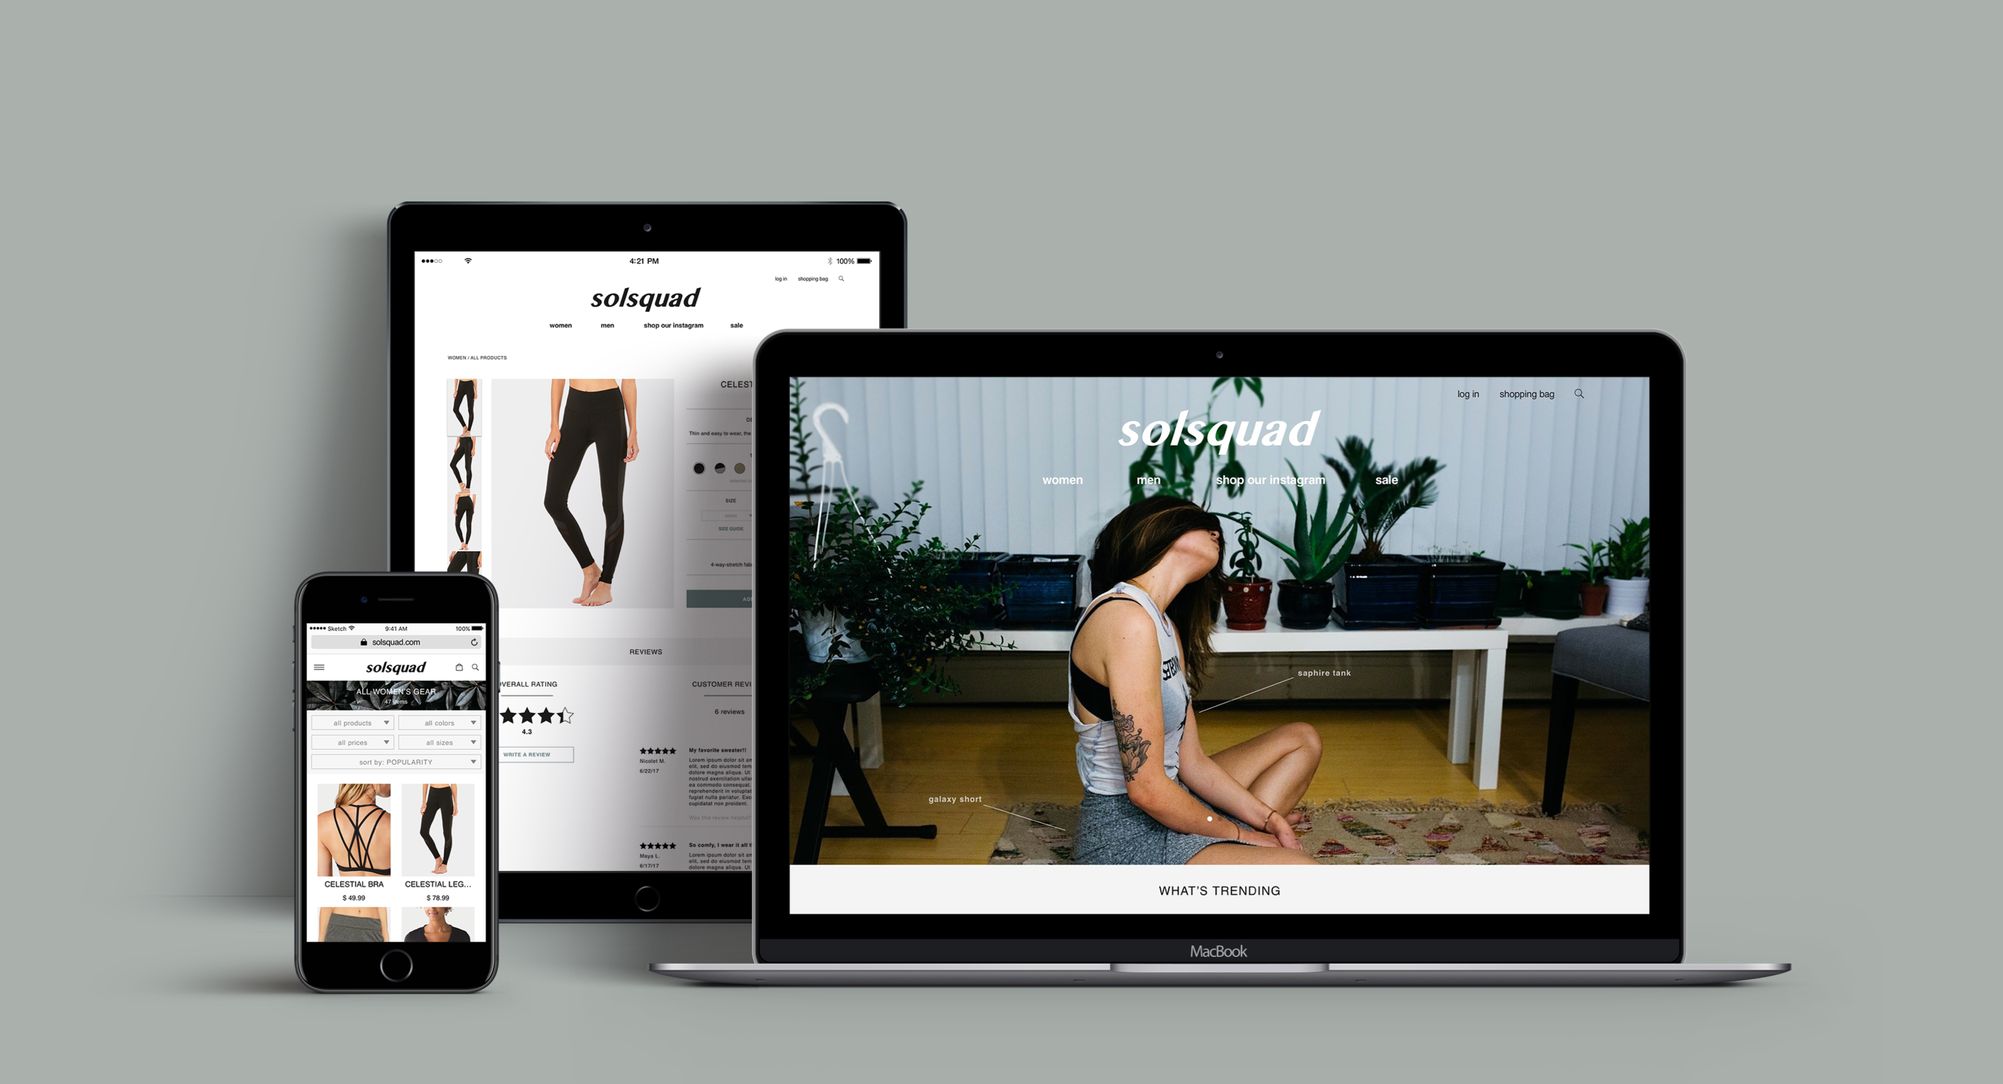
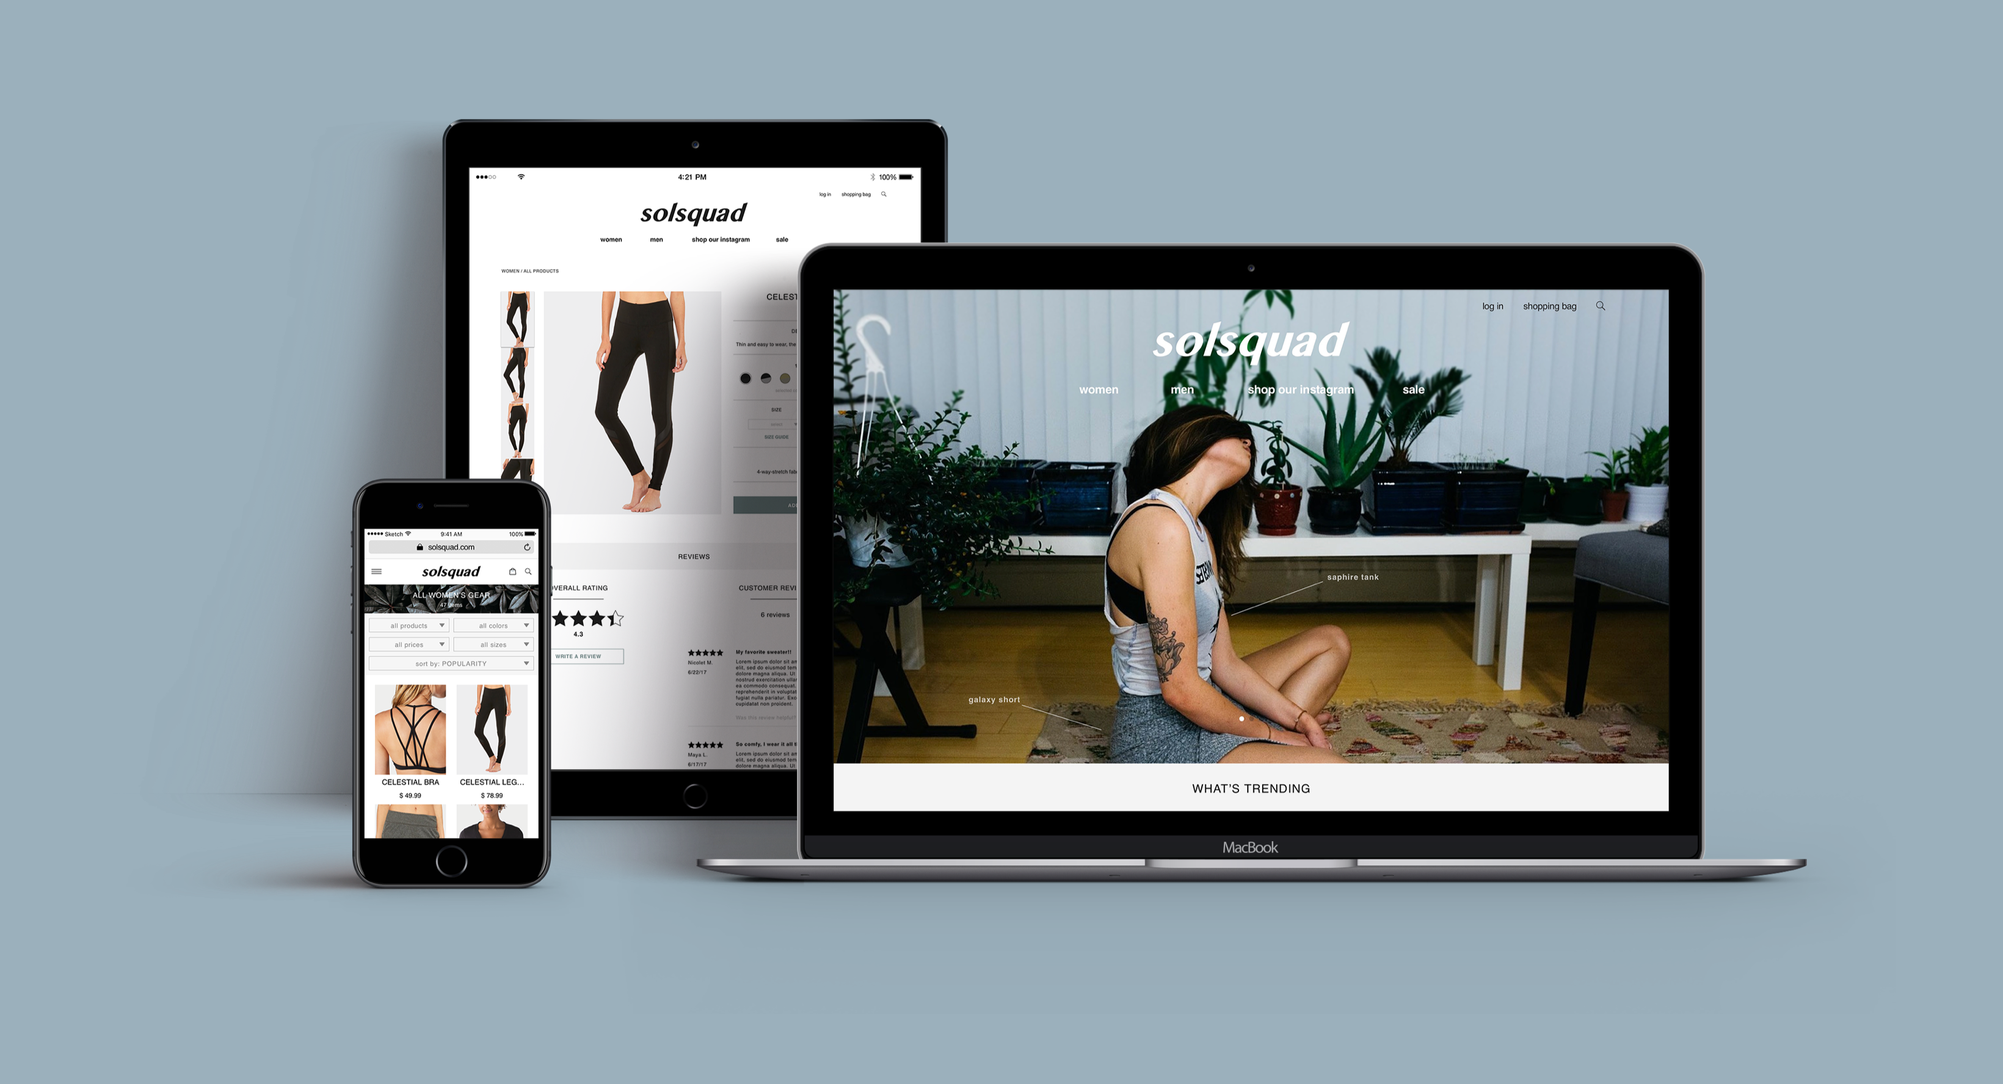
Almost done with The Hungry Pear.

diff --git a/solsquad.html b/solsquad.html
@@ -10,6 +10,7 @@
         <title>Annie Andrews | UX/UI Designer</title>
         <meta name="viewport" content="width=device-width, initial-scale=1">
         <link href="https://fonts.googleapis.com/css?family=Asap:400,400i,500,500i,600,600i,700,700i|Assistant:200,300,400,600,700,800|Gudea:400,400i,700|Hind+Guntur:300,400,500,600,700|Hind+Siliguri:300,400,500,600,700|Jaldi:400,700|Mada:200,300,400,500,600,700,900|Mallanna|Martel+Sans:300,400,600,700,800,900|Maven+Pro:400,500,700,900|Roboto:100,100i,300,300i,400,400i,500,500i,700,700i,900,900i|Source+Sans+Pro:200,200i,300,300i,400,400i,600,600i,700,700i,900,900i" rel="stylesheet">
+        <link href="https://fonts.googleapis.com/css?family=Candal" rel="stylesheet">
         <link rel="stylesheet" type="text/css" href="http://fonts.googleapis.com/css?family=Open+Sans:400,800,600,700,300">
         <link rel="stylesheet" type="text/css" href="http://code.ionicframework.com/ionicons/2.0.1/css/ionicons.min.css">
         <link rel="stylesheet" type="text/css" href="css/normalize.css">
@@ -36,19 +37,15 @@
         </div>
       </nav>
 
-
       <!-- hero content -->
       <section class="hero-content">
       </section>
 
-
-
-
       <!-- Section intro-->
       <section class="content-area">
         <section class="body-name container">
-          <h4>Solsquad</h4>
-          <a href="http://www.invisionapp.com/" class="link" target="_blank">View prototype</a>
+          <h4><a href='#spot'>Solsquad</a></h4>
+          <a href="http://www.invisionapp.com/" class="link" target="_blank" name="spot" id="spot">View prototype</a>
         </section>
         <section class="body-intro container">
           <p>For <strong>Solsquad</strong>, an entirely online business, it's important that the user has a seemless experience from potential consumer to paying customer, as well as feeling that the brand is being represented. Solsquad is an upscale athletic and athleisure wear company, and together we've positioned them towards the active, stylish young adult.</p>
@@ -69,7 +66,7 @@
 
           <section class="the-solution">
             <div class="container">
-              <input id="toggle2" type="checkbox" checked><label for="toggle2">The Solution</label>
+              <input id="toggle2" type="checkbox"><label for="toggle2">The Solution</label>
               <div id="expand">
                 <section>
                   <p>Providing a user-tested product that differentiates itself by being highly intuitive and simple while putting the high-end grunge style on display.</p>
@@ -80,7 +77,7 @@
 
           <section class="the-process">
             <div class="container">
-              <input id="toggle4" type="checkbox" checked><label for="toggle4">The Process</label>
+              <input id="toggle4" type="checkbox"><label for="toggle4">The Process</label>
               <div id="expand">
                 <section>
                     <h3>Get to know the user</h3>
@@ -115,11 +112,15 @@
                       <h3>Competitive Analysis</h3>
                       <p>This is text about competitors.</p>
                       <img src="images/solsquad/competition.png"  alt="Competitors">
+                      <img src="images/solsquad/alo.png"  alt="Competitive Analysis">
+                      <img src="images/solsquad/lululemon.png"  alt="Competitive Analysis">
                   </section>
                   <section class="user-flow">
                       <h3>User Flow</h3>
                       <p>This is text about user flow.</p>
                       <img src="images/solsquad/userflows.png"  alt="User Flow Charts">
+                      <img src="images/solsquad/userflows2.png"  alt="User Flow Charts">
+                      <img src="images/solsquad/userflows3.png"  alt="User Flow Charts">
                   </section>
                   <section class="branding">
                       <h3>Branding</h3>
@@ -128,8 +129,29 @@
                       <img src="images/solsquad/ideations.png"  alt="Logo Ideations">
                   </section>
                   <section class="design">
-                      <h3>Design</h3>
-                      <p>This is text about user design.</p>
+                    <h3>Design</h3>
+                    <h5>Low fidelity wireframes</h5>
+                    <p>Throughout the wireframing process, I was talking with users about what they would expect the app to do and how they'd prefer to interact within it. One of the main goals and identified priorities, was to have a search function similar to those that users are already interacting with.</p>
+                    <img src="images/solsquad/lofi.png" alt="Low Fidelity Wireframes">
+                    <h5>Refining</h5>
+                    <p>As conversations and testing continued, there were a number of pieces to the app that were rehauled, one of these was the <strong>INTRODUCTION</strong>. The starting idea featured a modal on top of the map. We wanted a way to give users a little more information about how to search on the app but this was later scrapped as it isn’t a standard iOS practice and not a familiar experience to users.
+                      <br/>The second idea was to have a 3 screen introduction through use of pagination. The first screen featured an app introduction, the second gave directions, and the third started the user off on their search. This idea was also scrapped because as the entirety of the the app underwent building, the design resembled a very straight forward search function and through talking with potential users of the app, everyone was able to figure out how to use the app without getting directions.
+                      <br/>We decided on a simple welcome screen, meant to appear for users either when they open the app as a new user or if they are a returning user who is not signed in. This way there is a colorful and inviting introduction to engage our users and excite them about their restaurant search, as  opposed just opening onto a simple map. The final design allowed us to feature colorful food photos and build brand recognition through the use of the logo and word mark.
+                    </p>
+                    <img src="images/solsquad/refine1.png" alt="Refining the Homescreen">
+                    <p>Another piece of the app to undergo major changes was the <strong>SEARCH</strong> feature. In initial planning, this screen was going to allow a user to choose between a frequently searched diet or search using text search for a diet not listed. At least for the starting scope of The Hungry Pear, this was scaled back due to the large increase in resources it would take to allow for any diet to be searched on and yield quality search results. After reviewing surveys and conversations with potential users, the most common diets were selected. One of the diets, as previously touched on, was not expected. It was a shock to learn just how many surveyed individuals identified as lactose intolerance and it was, in fact, added into our list of options.
+                      <br/>Then as we were creating the search page, we initially intended to use pills for the user to select. This idea was scrapped, however, to accomodate more imagery contributing to brand recognition and a positive, food focused experience with The Hungry Pear.
+                    </p>
+                    <img src="images/solsquad/refine2.png" alt="Refining the Search Feature">
+                    <p>Along the way the <strong>NAVIGATION</strong> bar also saw a lot of adjustment. Initially, to build brand recognition, the idea of having the word mark always on the screen was favored. But as we brought brand recognition into the app in other ways, this was ultimately deemed confusing and unneccessary.<br/>
+                        The icons also underwent changes. The profile picture was removed in place of a more standard account settings icon as we walked away from having formal profiles. Seeing as the app currently does not have a functionality for communication between users the profile was changed to a more simple account settings.<br/>
+                        Another large change was the removal of the “home” button. Talking with users, it was confusing which screen they should go to search on the map because the home screen was the map, and the search screen was separate. This was resolved by bringing in a full screen modal to search right on the map screen, also being consistent with how users would expect to interact with a map on iOS. <br/>
+                    </p>
+                    <img src="images/solsquad/refine3.png" alt="Refining the Navigation Bar">
+                    <h5>Final Design &amp; Prototyping</h5>
+                    <p>After creating high fidelity wireframes and making final revisions, the final design was completed. Take a look below.<br/>
+                      Take The Hungry Pear iOS app for a spin <a href="http://www.invisionapp.com/">by clicking here</a>.</p>
+                    <a href="http://www.invisionapp.com/"><img src="images/solsquad/final.png"  alt="Final Design"></a>
                   </section>
 
                 </section>
@@ -140,7 +162,7 @@
 
         <section class="conclusion">
           <div class="container">
-            <input id="toggle" type="checkbox" checked><label for="toggle">Conclusion</label>
+            <input id="toggle" type="checkbox"><label for="toggle">Conclusion</label>
             <div id="expand">
               <section>
                 <p>Solsquad is high-end athletic wear with a grundge flair. Styles are edgy, modern, and highlight strong lines to bring out a deep, eclectic beauty rarely seen. This website does the same.</p>
@@ -190,6 +212,6 @@
 
 
       <script src="https://code.jquery.com/jquery-2.1.3.min.js"></script>
-      <script src="JS/landing.js"></script>
+      <script src="JS/project.js"></script>
     </body>
 </html>

diff --git a/thehungrypear.html b/thehungrypear.html
@@ -45,8 +45,8 @@
       <!-- Section intro-->
       <section class="content-area">
         <section class="body-name container">
-          <h4>The Hungry Pear</h4>
-          <a href="http://www.invisionapp.com/" class="link" target="_blank">View prototype</a>
+          <h4><a href='#spot'>The Hungry Pear</a></h4>
+          <a href="http://www.invisionapp.com/" class="link" target="_blank" name="spot" id="spot">View prototype</a>
         </section>
         <section class="body-intro container">
           <p>For the growing number of people that find themselves on a restrictive diet, it’s hard to find restaurants meant for you. Most of the apps that are available today only offer a vegetarian filter to search by which is a very broad scope and often misses the mark for many searchers. It leaves the possibility for a user to wind up at a restaurant where the only option for them is a simple salad. The Hungry Pear is an iOS app designed to help those individuals identify the exciting restaurant options for them in their area.</p>
@@ -120,6 +120,8 @@
                       <p>After learning more about users and the competition, I used user stories to help me prioritize product features to be included in The Hungry Pear’s MVP. Stories were then converted into user flows to describe and visualize the interaction of a user with the product.</p>
                       <img src="images/thehungrypear/userstories.png"  alt="User Stories">
                       <img src="images/thehungrypear/userflows.png"  alt="User Flow Charts">
+                      <img src="images/thehungrypear/userflows2.png"  alt="User Flow Charts">
+                      <img src="images/thehungrypear/userflows3.png"  alt="User Flow Charts">
                   </section>
                   <section class="branding">
                       <h3>Branding</h3>
@@ -134,16 +136,24 @@
                       <p>Throughout the wireframing process, I was talking with users about what they would expect the app to do and how they'd prefer to interact within it. One of the main goals and identified priorities, was to have a search function similar to those that users are already interacting with.</p>
                       <img src="images/thehungrypear/lofi.png" alt="Low Fidelity Wireframes">
                       <h5>Refining</h5>
-                      <p>As conversations and testing continued, there were a number of pieces to the app that were rehauled, one of these was the <strong>HOMESCREEN</strong>. As we...</p>
+                      <p>As conversations and testing continued, there were a number of pieces to the app that were rehauled, one of these was the <strong>INTRODUCTION</strong>. The starting idea featured a modal on top of the map. We wanted a way to give users a little more information about how to search on the app but this was later scrapped as it isn’t a standard iOS practice and not a familiar experience to users.
+                        <br/>The second idea was to have a 3 screen introduction through use of pagination. The first screen featured an app introduction, the second gave directions, and the third started the user off on their search. This idea was also scrapped because as the entirety of the the app underwent building, the design resembled a very straight forward search function and through talking with potential users of the app, everyone was able to figure out how to use the app without getting directions.
+                        <br/>We decided on a simple welcome screen, meant to appear for users either when they open the app as a new user or if they are a returning user who is not signed in. This way there is a colorful and inviting introduction to engage our users and excite them about their restaurant search, as  opposed just opening onto a simple map. The final design allowed us to feature colorful food photos and build brand recognition through the use of the logo and word mark.
+                      </p>
                       <img src="images/thehungrypear/refine1.png" alt="Refining the Homescreen">
-                      <p>Another big piece of the puzzle to change was the <strong>SEARCH</strong> feature. In initial planning, this screen was going to allow a user to choose between a frequently searched diet or search for a different diet not listed by typing in the text search. To scale the project, at least for the starting scope of The Hungry Pear, this was removed due to the large increase in resources and partners it would take to allow for all major and minor diets to be searched on and yield search results. After reviewing surveys and conversations with potential users, the most common diets were selected.<br/>Next, as we were creating the search page, the thought was initially to use pills for the user to select. This idea was scrapped, however, to accomodate sexier imagery. Food pictures were deemed of grate importance to the branding of The Hungry Pear, so we swapped these in to our fullscreen modal.</p>
+                      <p>Another piece of the app to undergo major changes was the <strong>SEARCH</strong> feature. In initial planning, this screen was going to allow a user to choose between a frequently searched diet or search using text search for a diet not listed. At least for the starting scope of The Hungry Pear, this was scaled back due to the large increase in resources it would take to allow for any diet to be searched on and yield quality search results. After reviewing surveys and conversations with potential users, the most common diets were selected. One of the diets, as previously touched on, was not expected. It was a shock to learn just how many surveyed individuals identified as lactose intolerance and it was, in fact, added into our list of options.
+                        <br/>Then as we were creating the search page, we initially intended to use pills for the user to select. This idea was scrapped, however, to accomodate more imagery contributing to brand recognition and a positive, food focused experience with The Hungry Pear.
+                      </p>
                       <img src="images/thehungrypear/refine2.png" alt="Refining the Search Feature">
-                      <p>Along the way, the <strong>NAVIGATION BAR</strong> saw some major changes....</p>
+                      <p>Along the way the <strong>NAVIGATION</strong> bar also saw a lot of adjustment. Initially, to build brand recognition, the idea of having the word mark always on the screen was favored. But as we brought brand recognition into the app in other ways, this was ultimately deemed confusing and unneccessary.<br/>
+                          The icons also underwent changes. The profile picture was removed in place of a more standard account settings icon as we walked away from having formal profiles. Seeing as the app currently does not have a functionality for communication between users the profile was changed to a more simple account settings.<br/>
+                          Another large change was the removal of the “home” button. Talking with users, it was confusing which screen they should go to search on the map because the home screen was the map, and the search screen was separate. This was resolved by bringing in a full screen modal to search right on the map screen, also being consistent with how users would expect to interact with a map on iOS. <br/>
+                      </p>
                       <img src="images/thehungrypear/refine3.png" alt="Refining the Navigation Bar">
                       <h5>Final Design &amp; Prototyping</h5>
-                      <p>After creating high fidelity wireframes and making final revisions, the final design was completed. Take a look below.<br/><br/>
+                      <p>After creating high fidelity wireframes and making final revisions, the final design was completed. Take a look below.<br/>
                         Take The Hungry Pear iOS app for a spin <a href="http://www.invisionapp.com/">by clicking here</a>.</p>
-                      <img src="images/thehungrypear/finaldesign.png" alt="The Final Look">
+                      <a href="http://www.invisionapp.com/"><img src="images/thehungrypear/final.png"  alt="Final Design"></a>
                   </section>
 
                 </section>

diff --git a/CSS/solsquad.css b/CSS/solsquad.css
@@ -11,7 +11,7 @@
   background-repeat: no-repeat;
   background-position: center center;
   background-size: cover;
-  background-attachment:none;
+  background-attachment:fixed;
 }
 
 .project {
@@ -57,12 +57,17 @@ hr.thin {
 }
 
 .body-name h4 {
-  text-align:center;
-  font-size: 2em;
   padding-bottom: 0;
   margin-bottom: 0;
-  font-family:'hind siliguri', sans-serif;
+  margin-top:40px;
+  text-align:center;
+  font-size: 2.2em;
+  padding-bottom: 0;
+  margin-bottom: 0;
+  font-family:'Candal', sans-serif;
   font-weight:900;
+  font-style:italic;
+  color:#141414;
 }
 
 .body-name a {
@@ -158,7 +163,7 @@ section {
 }
 
 .body-copy .questions {
-  background-color: #F1F4F1;
+  background-color: rgba(155,176,188,.18);
   padding: .5em;
 }
 
@@ -175,6 +180,25 @@ section {
   line-height:2.2em;
   letter-spacing:.01em;
   font-weight:300;
+}
+
+.design h5 {
+  padding-bottom: 5px;
+  margin-top: 10px;
+  margin-bottom: 10px;
+  font-size: 1.1em;
+  letter-spacing:0.02rem;
+  font-weight:500;
+  text-align: left;
+  text-transform:none;
+  font-family:'assistant', sans-serif;
+  color:#94918E;
+}
+
+.design p a {
+  color:#141414;
+  text-decoration:none;
+  font-weight:600;
 }
 
 /* Toggle coding */
@@ -204,7 +228,7 @@ label {
   text-transform:uppercase;
   cursor:pointer;
   width:100%;
-  background-color:#AAB1AD;
+  background-color:#8096A2;
   border-radius:2px;
   margin: 0 0 20px 0;
   transition: color .2s ease-in-out;
@@ -308,14 +332,15 @@ label::before {
   color:#FFFFFF;
 }
 
+
 .link {
   font-family:'hind siliguri',sans-serif;
   font-weight:400;
   font-size:.75em;
   text-transform:uppercase;
-  width:100%;
   text-align:center;
-  align-items:center;
-  display:inline-block;
-  margin-top:10px;
+  display:block;
+  position:relative;
+  margin-top:30px;
+  margin-bottom:0;
 }

diff --git a/CSS/thehungrypear.css b/CSS/thehungrypear.css
@@ -61,7 +61,7 @@ hr.thin {
   font-size: 3em;
   padding-bottom: 0;
   margin-bottom: 0;
-  margin-top:20px;
+  margin-top:30px;
   font-family:'Cookie', cursive;
   font-weight:300;
   color:#952852;
@@ -291,7 +291,7 @@ label::before {
 
 /*Toggles for The Process*/
 #toggle4:checked ~ #expand {
-  height: auto;
+  height: 10450px;
 }
 
 #toggle4:checked ~ label::before {
@@ -335,7 +335,8 @@ label::before {
   font-size:.75em;
   text-transform:uppercase;
   text-align:center;
-  display:relative;
-  margin:0 auto;
-
+  display:block;
+  position:relative;
+  margin-top:30px;
+  margin-bottom:0;
 }

diff --git a/JS/project.js b/JS/project.js
@@ -1,0 +1,12 @@
+$(window).scroll(function(){
+    $(".my-name, .name-detail, .logo").css("opacity", 1 - $(window).scrollTop() / 250);
+  });
+
+
+$(document).on('click', 'a[href^="#spot"]', function (event) {
+    event.preventDefault();
+
+    $('html, body').animate({
+        scrollTop: $($.attr(this, 'href')).offset().top
+    }, 500);
+});
